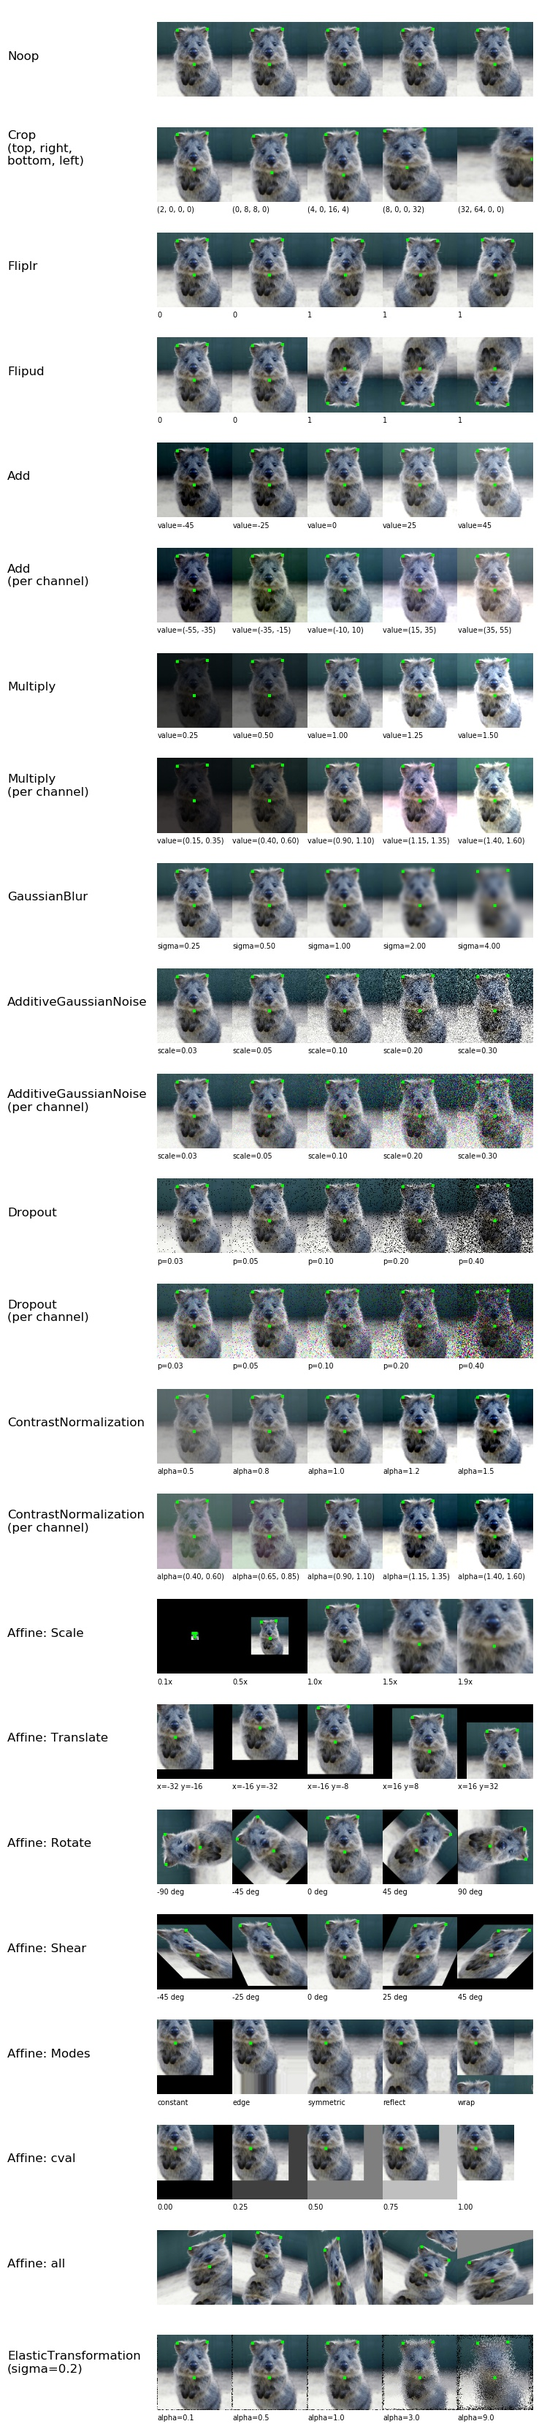
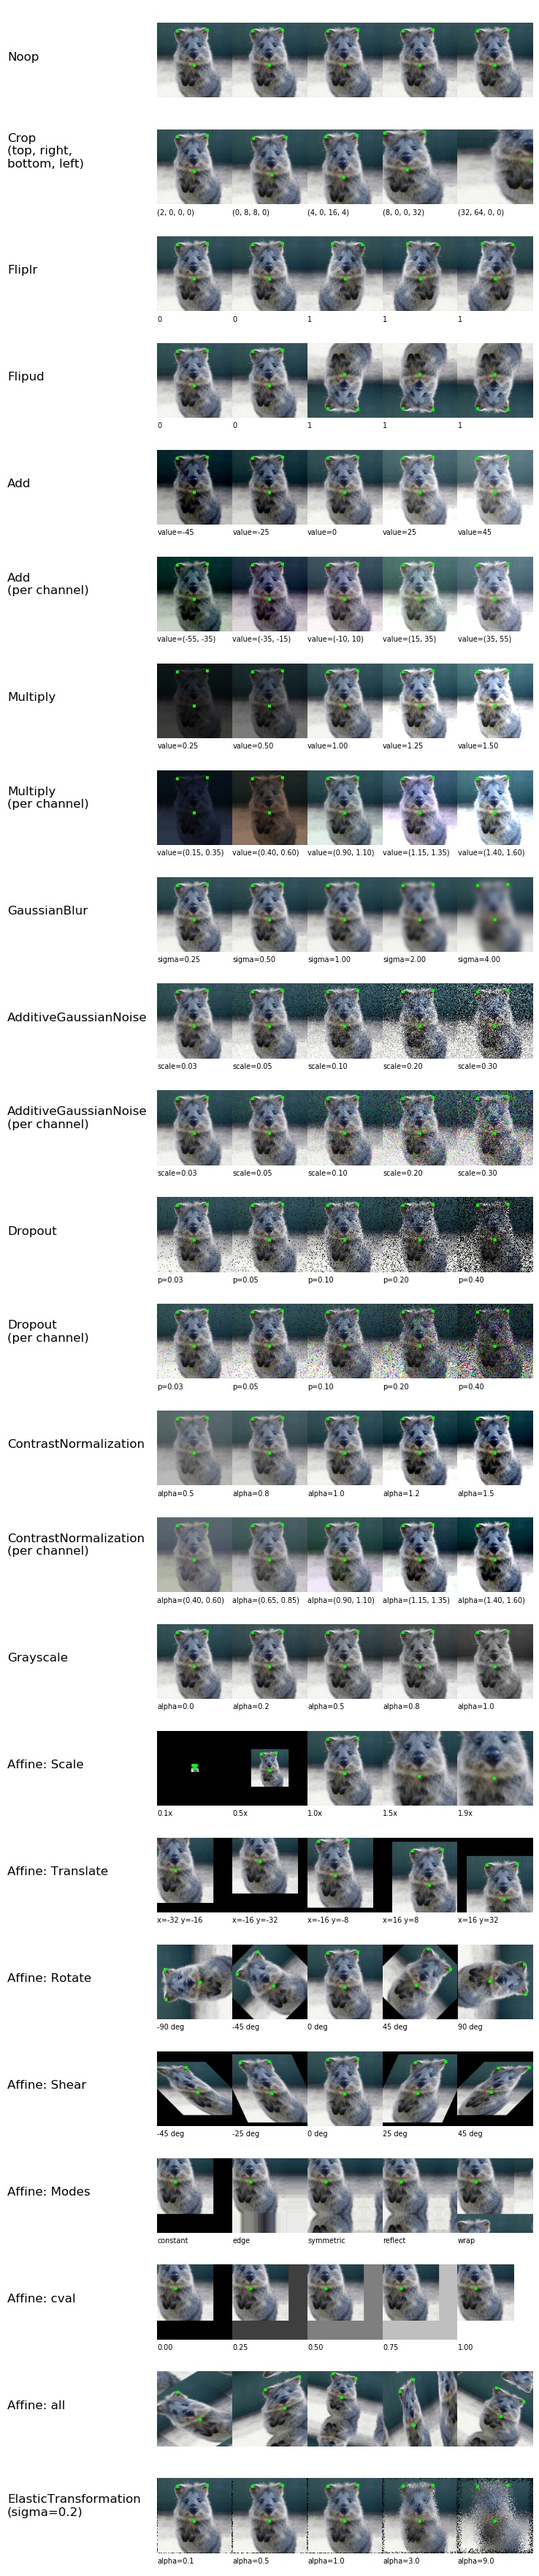
Add grayscale to checks/images; fix noise scale in examples; improve order in examples; add sys path to checks/tests

diff --git a/tests/check_performance.py b/tests/check_performance.py
@@ -1,7 +1,7 @@
 """
 Tests to measure the performance of each augmenter.
 Run these checks from the project directory (i.e. parent directory) via
-    python -m tests/check_performance
+    python check_performance.py
 """
 from __future__ import print_function, division
 
@@ -19,54 +19,148 @@ import time
 import random
 
 """
+---------------------------
+Keypoints
+---------------------------
 [Augmenter: Noop]
-(16, 4, 4, 3)        | SUM 0.02978s | PER ITER avg 0.00003s, min 0.00002s, max 0.00015s
-(16, 32, 32, 3)      | SUM 0.03937s | PER ITER avg 0.00004s, min 0.00003s, max 0.00008s
-(16, 256, 256, 3)    | SUM 0.64828s | PER ITER avg 0.00065s, min 0.00047s, max 0.00396s
+(4, 4, 3)            | SUM 0.01990s | PER ITER avg 0.00020s, min 0.00017s, max 0.00043s
+(32, 32, 3)          | SUM 0.01863s | PER ITER avg 0.00019s, min 0.00017s, max 0.00033s
+(256, 256, 3)        | SUM 0.01879s | PER ITER avg 0.00019s, min 0.00017s, max 0.00029s
 [Augmenter: Crop-px]
-(16, 4, 4, 3)        | SUM 4.15772s | PER ITER avg 0.00416s, min 0.00237s, max 0.00962s
-(16, 32, 32, 3)      | SUM 3.95888s | PER ITER avg 0.00396s, min 0.00247s, max 0.00908s
-(16, 256, 256, 3)    | SUM 13.43704s | PER ITER avg 0.01344s, min 0.00822s, max 0.02683s
+(4, 4, 3)            | SUM 0.20215s | PER ITER avg 0.00202s, min 0.00168s, max 0.01908s
+(32, 32, 3)          | SUM 0.19844s | PER ITER avg 0.00198s, min 0.00164s, max 0.01933s
+(256, 256, 3)        | SUM 0.17918s | PER ITER avg 0.00179s, min 0.00166s, max 0.00214s
 [Augmenter: Crop-percent]
-(16, 4, 4, 3)        | SUM 2.78791s | PER ITER avg 0.00279s, min 0.00186s, max 0.00714s
-(16, 32, 32, 3)      | SUM 3.94477s | PER ITER avg 0.00394s, min 0.00218s, max 0.01315s
-(16, 256, 256, 3)    | SUM 12.71237s | PER ITER avg 0.01271s, min 0.00812s, max 0.02040s
+(4, 4, 3)            | SUM 0.14201s | PER ITER avg 0.00142s, min 0.00114s, max 0.02041s
+(32, 32, 3)          | SUM 0.16912s | PER ITER avg 0.00169s, min 0.00137s, max 0.02023s
+(256, 256, 3)        | SUM 0.15548s | PER ITER avg 0.00155s, min 0.00142s, max 0.00193s
 [Augmenter: Fliplr]
-(16, 4, 4, 3)        | SUM 0.08755s | PER ITER avg 0.00009s, min 0.00004s, max 0.00021s
-(16, 32, 32, 3)      | SUM 0.17233s | PER ITER avg 0.00017s, min 0.00008s, max 0.00055s
-(16, 256, 256, 3)    | SUM 4.50344s | PER ITER avg 0.00450s, min 0.00178s, max 0.01106s
+(4, 4, 3)            | SUM 0.02303s | PER ITER avg 0.00023s, min 0.00021s, max 0.00034s
+(32, 32, 3)          | SUM 0.02477s | PER ITER avg 0.00025s, min 0.00021s, max 0.00038s
+(256, 256, 3)        | SUM 0.02383s | PER ITER avg 0.00024s, min 0.00022s, max 0.00036s
 [Augmenter: Flipud]
-(16, 4, 4, 3)        | SUM 0.10705s | PER ITER avg 0.00011s, min 0.00008s, max 0.00026s
-(16, 32, 32, 3)      | SUM 0.11831s | PER ITER avg 0.00012s, min 0.00006s, max 0.00021s
-(16, 256, 256, 3)    | SUM 1.57488s | PER ITER avg 0.00157s, min 0.00084s, max 0.00454s
+(4, 4, 3)            | SUM 0.02362s | PER ITER avg 0.00024s, min 0.00021s, max 0.00035s
+(32, 32, 3)          | SUM 0.02356s | PER ITER avg 0.00024s, min 0.00021s, max 0.00032s
+(256, 256, 3)        | SUM 0.02415s | PER ITER avg 0.00024s, min 0.00021s, max 0.00037s
+[Augmenter: Grayscale]
+(4, 4, 3)            | SUM 0.01908s | PER ITER avg 0.00019s, min 0.00017s, max 0.00030s
+(32, 32, 3)          | SUM 0.01903s | PER ITER avg 0.00019s, min 0.00017s, max 0.00030s
+(256, 256, 3)        | SUM 0.01876s | PER ITER avg 0.00019s, min 0.00017s, max 0.00027s
 [Augmenter: GaussianBlur]
-(16, 4, 4, 3)        | SUM 2.31715s | PER ITER avg 0.00232s, min 0.00139s, max 0.00571s
-(16, 32, 32, 3)      | SUM 4.48496s | PER ITER avg 0.00448s, min 0.00220s, max 0.00788s
-(16, 256, 256, 3)    | SUM 71.18983s | PER ITER avg 0.07119s, min 0.04511s, max 0.11663s
+(4, 4, 3)            | SUM 0.01904s | PER ITER avg 0.00019s, min 0.00017s, max 0.00029s
+(32, 32, 3)          | SUM 0.01851s | PER ITER avg 0.00019s, min 0.00017s, max 0.00033s
+(256, 256, 3)        | SUM 0.01894s | PER ITER avg 0.00019s, min 0.00017s, max 0.00025s
 [Augmenter: AdditiveGaussianNoise]
-(16, 4, 4, 3)        | SUM 1.70817s | PER ITER avg 0.00171s, min 0.00090s, max 0.00715s
-(16, 32, 32, 3)      | SUM 3.05533s | PER ITER avg 0.00306s, min 0.00205s, max 0.00712s
-(16, 256, 256, 3)    | SUM 93.89743s | PER ITER avg 0.09390s, min 0.07205s, max 0.12113s
+(4, 4, 3)            | SUM 0.01902s | PER ITER avg 0.00019s, min 0.00017s, max 0.00029s
+(32, 32, 3)          | SUM 0.01905s | PER ITER avg 0.00019s, min 0.00017s, max 0.00028s
+(256, 256, 3)        | SUM 0.01971s | PER ITER avg 0.00020s, min 0.00017s, max 0.00046s
 [Augmenter: Dropout]
-(16, 4, 4, 3)        | SUM 1.50206s | PER ITER avg 0.00150s, min 0.00086s, max 0.00316s
-(16, 32, 32, 3)      | SUM 2.45660s | PER ITER avg 0.00246s, min 0.00165s, max 0.01205s
-(16, 256, 256, 3)    | SUM 66.59406s | PER ITER avg 0.06659s, min 0.04842s, max 0.09186s
+(4, 4, 3)            | SUM 0.01887s | PER ITER avg 0.00019s, min 0.00017s, max 0.00027s
+(32, 32, 3)          | SUM 0.01913s | PER ITER avg 0.00019s, min 0.00017s, max 0.00030s
+(256, 256, 3)        | SUM 0.01922s | PER ITER avg 0.00019s, min 0.00017s, max 0.00029s
 [Augmenter: Multiply]
-(16, 4, 4, 3)        | SUM 0.87121s | PER ITER avg 0.00087s, min 0.00046s, max 0.00211s
-(16, 32, 32, 3)      | SUM 1.20261s | PER ITER avg 0.00120s, min 0.00061s, max 0.00456s
-(16, 256, 256, 3)    | SUM 11.87721s | PER ITER avg 0.01188s, min 0.00888s, max 0.02220s
-[Augmenter: UnnamedContrastNormalization]
-(16, 4, 4, 3)        | SUM 0.94920s | PER ITER avg 0.00095s, min 0.00052s, max 0.00225s
-(16, 32, 32, 3)      | SUM 1.37388s | PER ITER avg 0.00137s, min 0.00074s, max 0.00281s
-(16, 256, 256, 3)    | SUM 19.87741s | PER ITER avg 0.01988s, min 0.01431s, max 0.03306s
-[Augmenter: Affine]
-(16, 4, 4, 3)        | SUM 8.62488s | PER ITER avg 0.00862s, min 0.00456s, max 0.01680s
-(16, 32, 32, 3)      | SUM 48.71082s | PER ITER avg 0.04871s, min 0.01350s, max 0.11260s
-(16, 256, 256, 3)    | SUM 2727.93633s | PER ITER avg 2.72794s, min 0.60814s, max 5.74334s
+(4, 4, 3)            | SUM 0.01942s | PER ITER avg 0.00019s, min 0.00017s, max 0.00028s
+(32, 32, 3)          | SUM 0.01922s | PER ITER avg 0.00019s, min 0.00017s, max 0.00032s
+(256, 256, 3)        | SUM 0.01875s | PER ITER avg 0.00019s, min 0.00017s, max 0.00030s
+[Augmenter: ContrastNormalization]
+(4, 4, 3)            | SUM 0.01852s | PER ITER avg 0.00019s, min 0.00017s, max 0.00029s
+(32, 32, 3)          | SUM 0.01869s | PER ITER avg 0.00019s, min 0.00017s, max 0.00026s
+(256, 256, 3)        | SUM 0.01875s | PER ITER avg 0.00019s, min 0.00017s, max 0.00028s
+[Augmenter: Grayscale]
+(4, 4, 3)            | SUM 0.01919s | PER ITER avg 0.00019s, min 0.00017s, max 0.00030s
+(32, 32, 3)          | SUM 0.01923s | PER ITER avg 0.00019s, min 0.00017s, max 0.00033s
+(256, 256, 3)        | SUM 0.01888s | PER ITER avg 0.00019s, min 0.00017s, max 0.00028s
 [Augmenter: ElasticTransformation]
-(16, 4, 4, 3)        | SUM 4.51120s | PER ITER avg 0.00451s, min 0.00283s, max 0.00762s
-(16, 32, 32, 3)      | SUM 10.91999s | PER ITER avg 0.01092s, min 0.00670s, max 0.02178s
-(16, 256, 256, 3)    | SUM 368.11991s | PER ITER avg 0.36812s, min 0.26031s, max 0.49898s
+(4, 4, 3)            | SUM 0.01882s | PER ITER avg 0.00019s, min 0.00017s, max 0.00024s
+(32, 32, 3)          | SUM 0.01883s | PER ITER avg 0.00019s, min 0.00017s, max 0.00029s
+(256, 256, 3)        | SUM 0.01869s | PER ITER avg 0.00019s, min 0.00017s, max 0.00029s
+[Augmenter: AffineOrder0ModeConstant]
+(4, 4, 3)            | SUM 0.28146s | PER ITER avg 0.00281s, min 0.00243s, max 0.02199s
+(32, 32, 3)          | SUM 0.28047s | PER ITER avg 0.00280s, min 0.00243s, max 0.02083s
+(256, 256, 3)        | SUM 0.28715s | PER ITER avg 0.00287s, min 0.00243s, max 0.02088s
+[Augmenter: AffineOrder0]
+(4, 4, 3)            | SUM 0.27242s | PER ITER avg 0.00272s, min 0.00246s, max 0.00362s
+(32, 32, 3)          | SUM 0.29675s | PER ITER avg 0.00297s, min 0.00247s, max 0.02220s
+(256, 256, 3)        | SUM 0.28988s | PER ITER avg 0.00290s, min 0.00247s, max 0.02128s
+[Augmenter: AffineOrder1]
+(4, 4, 3)            | SUM 0.26750s | PER ITER avg 0.00267s, min 0.00246s, max 0.00321s
+(32, 32, 3)          | SUM 0.28361s | PER ITER avg 0.00284s, min 0.00245s, max 0.02144s
+(256, 256, 3)        | SUM 0.28973s | PER ITER avg 0.00290s, min 0.00246s, max 0.02070s
+[Augmenter: AffineAll]
+(4, 4, 3)            | SUM 0.27070s | PER ITER avg 0.00271s, min 0.00246s, max 0.00367s
+(32, 32, 3)          | SUM 0.28405s | PER ITER avg 0.00284s, min 0.00247s, max 0.02120s
+(256, 256, 3)        | SUM 0.28895s | PER ITER avg 0.00289s, min 0.00247s, max 0.02144s
+---------------------------
+Images
+---------------------------
+[Augmenter: Noop]
+(16, 4, 4, 3)        | SUM 0.00135s | PER ITER avg 0.00001s, min 0.00001s, max 0.00008s
+(16, 32, 32, 3)      | SUM 0.00203s | PER ITER avg 0.00002s, min 0.00002s, max 0.00005s
+(16, 256, 256, 3)    | SUM 0.05284s | PER ITER avg 0.00053s, min 0.00044s, max 0.00194s
+[Augmenter: Crop-px]
+(16, 4, 4, 3)        | SUM 0.09324s | PER ITER avg 0.00093s, min 0.00084s, max 0.00315s
+(16, 32, 32, 3)      | SUM 0.10302s | PER ITER avg 0.00103s, min 0.00094s, max 0.00162s
+(16, 256, 256, 3)    | SUM 0.81943s | PER ITER avg 0.00819s, min 0.00767s, max 0.00934s
+[Augmenter: Crop-percent]
+(16, 4, 4, 3)        | SUM 0.06562s | PER ITER avg 0.00066s, min 0.00057s, max 0.00099s
+(16, 32, 32, 3)      | SUM 0.09784s | PER ITER avg 0.00098s, min 0.00089s, max 0.00131s
+(16, 256, 256, 3)    | SUM 0.80779s | PER ITER avg 0.00808s, min 0.00732s, max 0.01008s
+[Augmenter: Fliplr]
+(16, 4, 4, 3)        | SUM 0.00525s | PER ITER avg 0.00005s, min 0.00004s, max 0.00017s
+(16, 32, 32, 3)      | SUM 0.01025s | PER ITER avg 0.00010s, min 0.00007s, max 0.00015s
+(16, 256, 256, 3)    | SUM 0.36918s | PER ITER avg 0.00369s, min 0.00181s, max 0.00553s
+[Augmenter: Flipud]
+(16, 4, 4, 3)        | SUM 0.00512s | PER ITER avg 0.00005s, min 0.00004s, max 0.00009s
+(16, 32, 32, 3)      | SUM 0.00665s | PER ITER avg 0.00007s, min 0.00006s, max 0.00011s
+(16, 256, 256, 3)    | SUM 0.12664s | PER ITER avg 0.00127s, min 0.00092s, max 0.00167s
+[Augmenter: Grayscale]
+(16, 4, 4, 3)        | SUM 0.05943s | PER ITER avg 0.00059s, min 0.00050s, max 0.00125s
+(16, 32, 32, 3)      | SUM 0.12247s | PER ITER avg 0.00122s, min 0.00106s, max 0.00205s
+(16, 256, 256, 3)    | SUM 3.62785s | PER ITER avg 0.03628s, min 0.03508s, max 0.03963s
+[Augmenter: GaussianBlur]
+(16, 4, 4, 3)        | SUM 0.15514s | PER ITER avg 0.00155s, min 0.00136s, max 0.00188s
+(16, 32, 32, 3)      | SUM 0.25121s | PER ITER avg 0.00251s, min 0.00221s, max 0.00298s
+(16, 256, 256, 3)    | SUM 5.51685s | PER ITER avg 0.05517s, min 0.04923s, max 0.06026s
+[Augmenter: AdditiveGaussianNoise]
+(16, 4, 4, 3)        | SUM 0.09606s | PER ITER avg 0.00096s, min 0.00085s, max 0.00150s
+(16, 32, 32, 3)      | SUM 0.21302s | PER ITER avg 0.00213s, min 0.00196s, max 0.00254s
+(16, 256, 256, 3)    | SUM 7.22374s | PER ITER avg 0.07224s, min 0.07017s, max 0.07558s
+[Augmenter: Dropout]
+(16, 4, 4, 3)        | SUM 0.09362s | PER ITER avg 0.00094s, min 0.00084s, max 0.00118s
+(16, 32, 32, 3)      | SUM 0.17472s | PER ITER avg 0.00175s, min 0.00161s, max 0.00230s
+(16, 256, 256, 3)    | SUM 5.04969s | PER ITER avg 0.05050s, min 0.04839s, max 0.05631s
+[Augmenter: Multiply]
+(16, 4, 4, 3)        | SUM 0.05442s | PER ITER avg 0.00054s, min 0.00046s, max 0.00089s
+(16, 32, 32, 3)      | SUM 0.06895s | PER ITER avg 0.00069s, min 0.00060s, max 0.00109s
+(16, 256, 256, 3)    | SUM 0.87311s | PER ITER avg 0.00873s, min 0.00799s, max 0.00993s
+[Augmenter: ContrastNormalization]
+(16, 4, 4, 3)        | SUM 0.05746s | PER ITER avg 0.00057s, min 0.00050s, max 0.00094s
+(16, 32, 32, 3)      | SUM 0.08083s | PER ITER avg 0.00081s, min 0.00071s, max 0.00133s
+(16, 256, 256, 3)    | SUM 1.57577s | PER ITER avg 0.01576s, min 0.01443s, max 0.01831s
+[Augmenter: Grayscale]
+(16, 4, 4, 3)        | SUM 0.05464s | PER ITER avg 0.00055s, min 0.00049s, max 0.00069s
+(16, 32, 32, 3)      | SUM 0.12058s | PER ITER avg 0.00121s, min 0.00104s, max 0.00223s
+(16, 256, 256, 3)    | SUM 3.57037s | PER ITER avg 0.03570s, min 0.03461s, max 0.03780s
+[Augmenter: ElasticTransformation]
+(16, 4, 4, 3)        | SUM 0.29551s | PER ITER avg 0.00296s, min 0.00272s, max 0.00336s
+(16, 32, 32, 3)      | SUM 0.68591s | PER ITER avg 0.00686s, min 0.00642s, max 0.00764s
+(16, 256, 256, 3)    | SUM 26.30515s | PER ITER avg 0.26305s, min 0.25754s, max 0.26912s
+[Augmenter: AffineOrder0ModeConstant]
+(16, 4, 4, 3)        | SUM 0.35887s | PER ITER avg 0.00359s, min 0.00333s, max 0.00424s
+(16, 32, 32, 3)      | SUM 0.47889s | PER ITER avg 0.00479s, min 0.00451s, max 0.00535s
+(16, 256, 256, 3)    | SUM 9.83738s | PER ITER avg 0.09837s, min 0.09417s, max 0.10458s
+[Augmenter: AffineOrder0]
+(16, 4, 4, 3)        | SUM 0.37980s | PER ITER avg 0.00380s, min 0.00340s, max 0.00517s
+(16, 32, 32, 3)      | SUM 0.53106s | PER ITER avg 0.00531s, min 0.00472s, max 0.00630s
+(16, 256, 256, 3)    | SUM 10.69961s | PER ITER avg 0.10700s, min 0.10223s, max 0.11325s
+[Augmenter: AffineOrder1]
+(16, 4, 4, 3)        | SUM 0.39431s | PER ITER avg 0.00394s, min 0.00363s, max 0.00511s
+(16, 32, 32, 3)      | SUM 0.62730s | PER ITER avg 0.00627s, min 0.00576s, max 0.00711s
+(16, 256, 256, 3)    | SUM 14.50003s | PER ITER avg 0.14500s, min 0.13785s, max 0.15291s
+[Augmenter: AffineAll]
+(16, 4, 4, 3)        | SUM 0.58742s | PER ITER avg 0.00587s, min 0.00429s, max 0.00724s
+(16, 32, 32, 3)      | SUM 3.69956s | PER ITER avg 0.03700s, min 0.01358s, max 0.06233s
+(16, 256, 256, 3)    | SUM 212.91776s | PER ITER avg 2.12918s, min 0.57114s, max 3.95389s
 """
 def main():
     augmenters = [
@@ -81,6 +175,7 @@ def main():
         iaa.Dropout((0.0, 0.1), name="Dropout"),
         iaa.Multiply((0.5, 1.5), name="Multiply"),
         iaa.ContrastNormalization(alpha=(0.5, 2.0), name="ContrastNormalization"),
+        iaa.Grayscale(alpha=(0.0, 1.0), name="Grayscale"),
         iaa.ElasticTransformation(alpha=(0.5, 8.0), sigma=1.0, name="ElasticTransformation"),
         iaa.Affine(
             scale={"x": (0.8, 1.2), "y": (0.8, 1.2)},

diff --git a/tests/test_readme_examples.py b/tests/test_readme_examples.py
@@ -1,9 +1,14 @@
 """
 Script to verify all examples in the readme.
 Run from the project directory (i.e. parent) with
-    python -m tests/test_readme_examples
+    python test_readme_examples.py
 """
 from __future__ import print_function, division
+
+import sys
+import os
+sys.path.append(os.path.join(os.path.dirname(__file__), '..'))
+
 import numpy as np
 from scipy import misc
 
@@ -77,17 +82,18 @@ def example_heavy_augmentations():
             iaa.Flipud(0.5), # vertically flip 50% of all images
             st(iaa.Crop(percent=(0, 0.1))), # crop images by 0-10% of their height/width
             st(iaa.GaussianBlur((0, 3.0))), # blur images with a sigma between 0 and 3.0
-            st(iaa.AdditiveGaussianNoise(loc=0, scale=(0.0, 0.2), per_channel=0.5)), # add gaussian noise to images
+            st(iaa.AdditiveGaussianNoise(loc=0, scale=(0.0, 0.05*255), per_channel=0.5)), # add gaussian noise to images
             st(iaa.Dropout((0.0, 0.1), per_channel=0.5)), # randomly remove up to 10% of the pixels
             st(iaa.Add((-10, 10), per_channel=0.5)), # change brightness of images (by -10 to 10 of original value)
             st(iaa.Multiply((0.5, 1.5), per_channel=0.5)), # change brightness of images (50-150% of original value)
             st(iaa.ContrastNormalization((0.5, 2.0), per_channel=0.5)), # improve or worsen the contrast
+            st(iaa.Grayscale((0.0, 1.0))), # blend with grayscale image
             st(iaa.Affine(
                 scale={"x": (0.8, 1.2), "y": (0.8, 1.2)}, # scale images to 80-120% of their size, individually per axis
                 translate_px={"x": (-16, 16), "y": (-16, 16)}, # translate by -16 to +16 pixels (per axis)
                 rotate=(-45, 45), # rotate by -45 to +45 degrees
                 shear=(-16, 16), # shear by -16 to +16 degrees
-                order=ia.ALL, # use any of scikit-image's interpolation methods
+                order=[0, 1], # use scikit-image's interpolation orders 0 (nearest neighbour) and 1 (bilinear)
                 cval=(0, 1.0), # if mode is constant, use a cval between 0 and 1.0
                 mode=ia.ALL # use any of scikit-image's warping modes (see 2nd image from the top for examples)
             )),

diff --git a/generate_example_images.py b/generate_example_images.py
@@ -23,17 +23,18 @@ def draw_single_sequential_images():
             iaa.Flipud(0.5),
             st(iaa.Crop(percent=(0, 0.1))),
             st(iaa.GaussianBlur((0, 3.0))),
-            st(iaa.AdditiveGaussianNoise(loc=0, scale=(0.0, 0.2), per_channel=0.5)),
+            st(iaa.AdditiveGaussianNoise(loc=0, scale=(0.0, 0.05*255), per_channel=0.5)),
             st(iaa.Dropout((0.0, 0.1), per_channel=0.5)),
             st(iaa.Add((-10, 10), per_channel=0.5)),
             st(iaa.Multiply((0.5, 1.5), per_channel=0.5)),
             st(iaa.ContrastNormalization((0.5, 2.0), per_channel=0.5)),
+            st(iaa.Grayscale(alpha=(0.0, 1.0), name="Grayscale")),
             st(iaa.Affine(
                 scale={"x": (0.8, 1.2), "y": (0.8, 1.2)},
                 translate_px={"x": (-16, 16), "y": (-16, 16)},
                 rotate=(-45, 45),
                 shear=(-16, 16),
-                order=ia.ALL,
+                order=[0, 1],
                 cval=(0, 1.0),
                 mode=ia.ALL
             )),
@@ -73,6 +74,7 @@ def draw_per_augmenter_images():
         ("Dropout\n(per channel)", [("p=%.2f" % (p,), iaa.Dropout(p=p, per_channel=True)) for p in [0.025, 0.05, 0.1, 0.2, 0.4]]),
         ("ContrastNormalization", [("alpha=%.1f" % (alpha,), iaa.ContrastNormalization(alpha=alpha)) for alpha in [0.5, 0.75, 1.0, 1.25, 1.50]]),
         ("ContrastNormalization\n(per channel)", [("alpha=(%.2f, %.2f)" % (alphas[0], alphas[1],), iaa.ContrastNormalization(alpha=alphas, per_channel=True)) for alphas in [(0.4, 0.6), (0.65, 0.85), (0.9, 1.1), (1.15, 1.35), (1.4, 1.6)]]),
+        ("Grayscale", [("alpha=%.1f" % (alpha,), iaa.Grayscale(alpha=alpha)) for alpha in [0.0, 0.25, 0.5, 0.75, 1.0]]),
         ("Affine: Scale", [("%.1fx" % (scale,), iaa.Affine(scale=scale)) for scale in [0.1, 0.5, 1.0, 1.5, 1.9]]),
         ("Affine: Translate", [("x=%d y=%d" % (x, y), iaa.Affine(translate_px={"x": x, "y": y})) for x, y in [(-32, -16), (-16, -32), (-16, -8), (16, 8), (16, 32)]]),
         ("Affine: Rotate", [("%d deg" % (rotate,), iaa.Affine(rotate=rotate)) for rotate in [-90, -45, 0, 45, 90]]),

diff --git a/augmenters.py b/augmenters.py
@@ -872,6 +872,7 @@ class Flipud(Augmenter):
     def get_parameters(self):
         return [self.p]
 
+# TODO tests
 # Note: Not clear whether this class will be kept (for anything aside from grayscale)
 # other colorspaces dont really make sense and they also might not work correctly
 # due to having no clearly limited range (like 0-255 or 0-1)
@@ -1006,6 +1007,7 @@ class ChangeColorspace(Augmenter):
     def get_parameters(self):
         return [self.alpha, self.to_colorspace]
 
+# TODO tests
 def Grayscale(alpha=0, from_colorspace="RGB", name=None, deterministic=False, random_state=None):
     return ChangeColorspace(to_colorspace=ChangeColorspace.GRAY, alpha=alpha, from_colorspace=from_colorspace, name=name, deterministic=deterministic, random_state=random_state)
 

diff --git a/tests/check_visually.py b/tests/check_visually.py
@@ -1,9 +1,14 @@
 """
 Tests to visually inspect the results of the library's functionality.
 Run these checks from the project directory (i.e. parent directory) via
-    python -m tests/check_visually
+    python check_visually.py
 """
 from __future__ import print_function, division
+
+import sys
+import os
+sys.path.append(os.path.join(os.path.dirname(__file__), '..'))
+
 import imgaug as ia
 import augmenters as iaa
 import parameters as iap
@@ -13,7 +18,7 @@ from skimage import data
 
 def main():
     images = [
-        misc.imresize(ndimage.imread("quokka.jpg")[0:643, 0:643], (128, 128)),
+        misc.imresize(ndimage.imread("../quokka.jpg")[0:643, 0:643], (128, 128)),
         misc.imresize(data.astronaut(), (128, 128))
     ]
 

diff --git a/tests/test.py b/tests/test.py
@@ -1,9 +1,14 @@
 """
 Automatically running tests for this library.
 Run these from the project directory (i.e. parent directory) via
-    python -m tests/test
+    python test.py
 """
 from __future__ import print_function, division
+
+import sys
+import os
+sys.path.append(os.path.join(os.path.dirname(__file__), '..'))
+
 import imgaug as ia
 import augmenters as iaa
 import parameters as iap
